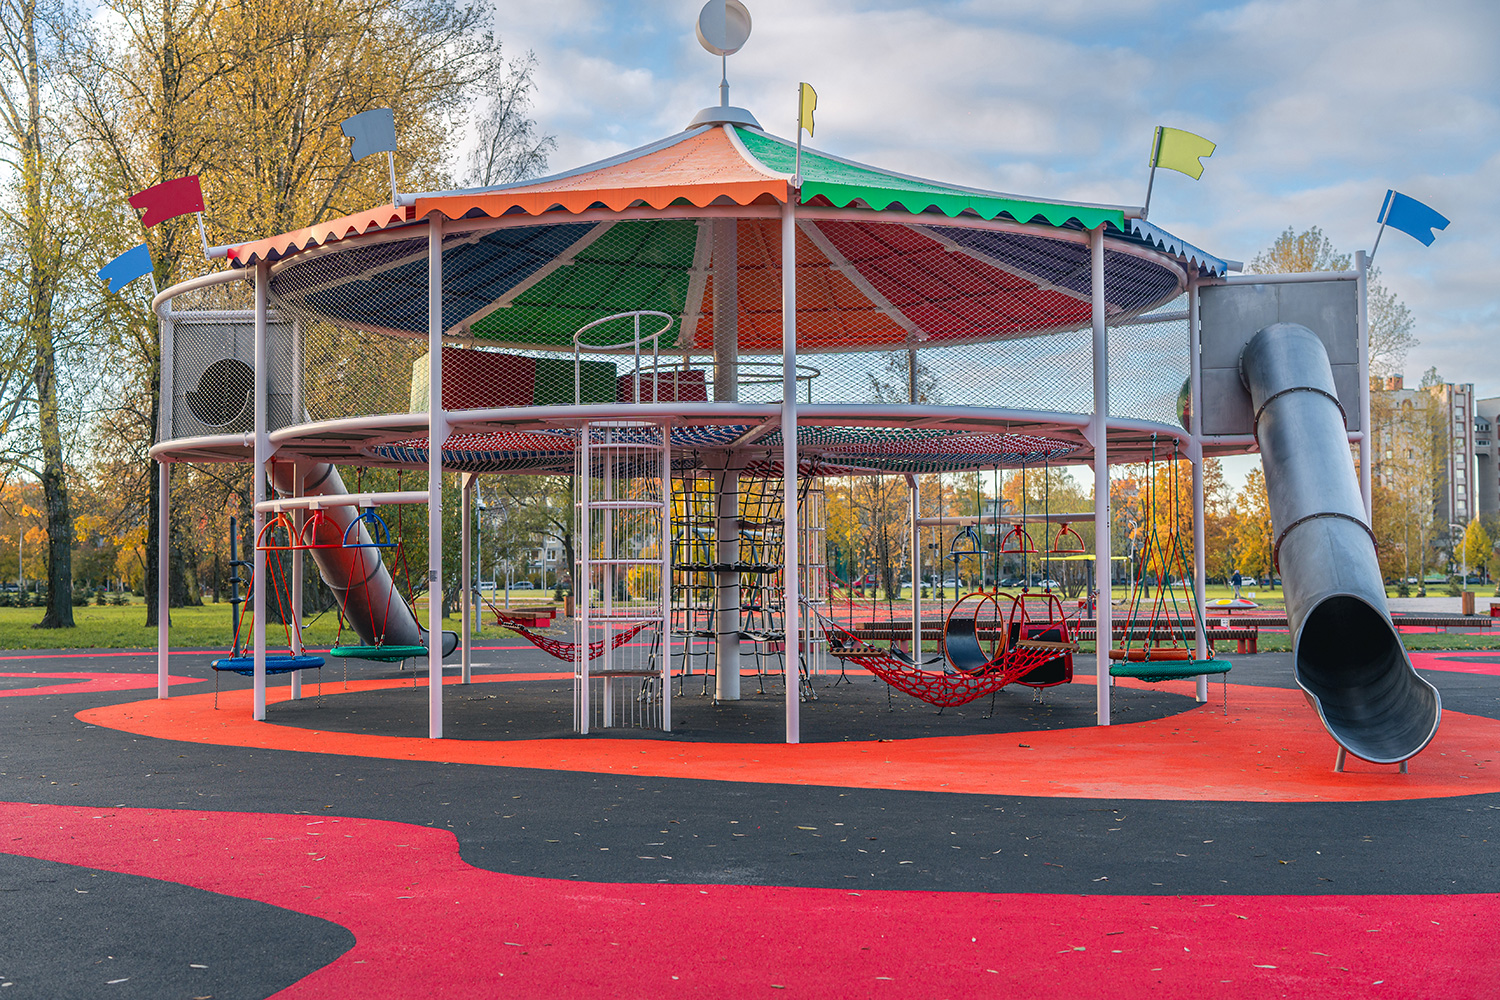
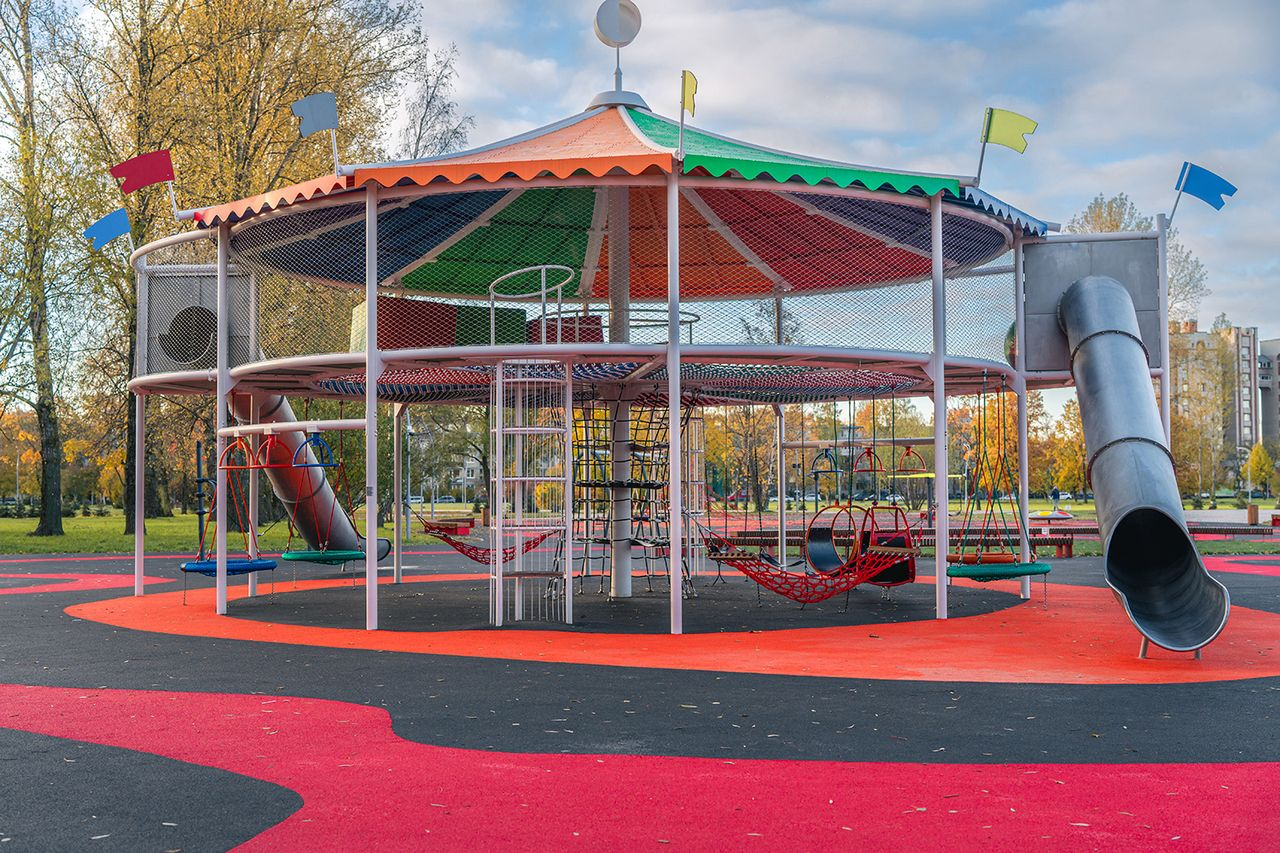
Лиды в Telegram, политика, лид-магнит каталог, SEO, бот-защита, ZIP
- Заявки/квиз/контакты/каталог шлют лид в Telegram + экран Спасибо
- Маска телефона, валидация, conversion label (gtag)
- privacy.html + согласие в формах (для модерации Google Ads)
- Каталог за контакт (модалка)
- SEO: og/twitter/schema image, SEO-текст, ускорен прелоадер, сжаты фото
- .htaccess (блок бот-скрейперов, HTTPS, gzip, кэш) + robots.txt
- maf-construction-site.zip для загрузки на хостинг

diff --git a/privacy.html b/privacy.html
@@ -1,0 +1,77 @@
+<!DOCTYPE html>
+<html lang="ru">
+<head>
+<meta charset="UTF-8">
+<meta name="viewport" content="width=device-width, initial-scale=1.0">
+<title>Политика конфиденциальности — MAF Construction LTD Group</title>
+<meta name="robots" content="noindex, follow">
+<style>
+*{margin:0;padding:0;box-sizing:border-box}
+body{font-family:-apple-system,Segoe UI,Roboto,Arial,sans-serif;color:#1E293B;background:#F1F5F9;line-height:1.7;-webkit-font-smoothing:antialiased}
+.wrap{max-width:820px;margin:0 auto;padding:40px 20px 80px}
+.top{display:flex;align-items:center;justify-content:space-between;margin-bottom:32px;flex-wrap:wrap;gap:12px}
+.logo{font-weight:800;font-size:20px;color:#0A1628;text-decoration:none}.logo span{color:#FF6B35}
+.back{color:#0052CC;text-decoration:none;font-weight:600;font-size:14px}
+.card{background:#fff;border-radius:18px;padding:40px;box-shadow:0 8px 40px rgba(0,0,0,.06)}
+h1{font-size:28px;font-weight:800;color:#0A1628;margin-bottom:8px;letter-spacing:-.5px}
+.upd{color:#64748B;font-size:13px;margin-bottom:28px}
+h2{font-size:18px;font-weight:700;color:#0A1628;margin:28px 0 10px}
+p,li{font-size:15px;color:#334155;margin-bottom:10px}
+ul{padding-left:22px}
+a{color:#0052CC}
+.muted{color:#64748B;font-size:13px;margin-top:28px;border-top:1px solid #E2E8F0;padding-top:20px}
+@media(max-width:600px){.card{padding:24px}h1{font-size:23px}}
+</style>
+</head>
+<body>
+<div class="wrap">
+<div class="top"><a href="index.html" class="logo">MAF<span>.</span>Construction</a><a href="index.html" class="back">&#8592; На главную</a></div>
+<div class="card">
+<h1>Политика конфиденциальности</h1>
+<div class="upd">Действует с 8 июня 2026 года</div>
+
+<p>Настоящая Политика конфиденциальности определяет порядок обработки и защиты персональных данных пользователей сайта (далее — «Сайт») оператором <strong>MAF Construction LTD Group</strong> (БИН 250440001994, г. Алматы, ул. Кыз Жибек, 87) (далее — «Оператор»).</p>
+
+<h2>1. Какие данные мы собираем</h2>
+<p>При заполнении форм на Сайте (заявка, калькулятор стоимости, запрос каталога) Оператор обрабатывает следующие персональные данные, которые вы предоставляете добровольно:</p>
+<ul>
+<li>имя;</li>
+<li>номер телефона;</li>
+<li>текст сообщения (если вы его указали).</li>
+</ul>
+<p>Также автоматически могут собираться технические данные (cookies, IP-адрес, тип устройства и браузера, источник перехода) с помощью систем веб-аналитики.</p>
+
+<h2>2. Цели обработки</h2>
+<ul>
+<li>обработка и выполнение ваших заявок и запросов;</li>
+<li>связь с вами для консультации, подбора оборудования, подготовки расчёта и коммерческого предложения;</li>
+<li>улучшение работы Сайта и качества сервиса;</li>
+<li>оценка эффективности рекламы (обезличенная статистика).</li>
+</ul>
+
+<h2>3. Правовое основание</h2>
+<p>Обработка персональных данных осуществляется на основании вашего согласия, которое вы даёте, отправляя форму на Сайте, в соответствии с законодательством Республики Казахстан «О персональных данных и их защите».</p>
+
+<h2>4. Передача третьим лицам</h2>
+<p>Оператор не продаёт и не передаёт ваши персональные данные третьим лицам, за исключением случаев, необходимых для исполнения заявки, а также случаев, предусмотренных законодательством. Данные могут обрабатываться в используемых Оператором сервисах (мессенджеры, системы аналитики) исключительно в указанных выше целях.</p>
+
+<h2>5. Хранение и защита</h2>
+<p>Персональные данные хранятся не дольше, чем это необходимо для целей обработки, после чего удаляются. Оператор принимает необходимые организационные и технические меры для защиты данных от несанкционированного доступа.</p>
+
+<h2>6. Ваши права</h2>
+<p>Вы вправе запросить информацию об обработке ваших данных, их изменение или удаление, а также отозвать согласие на обработку, направив обращение по контактам ниже.</p>
+
+<h2>7. Cookies</h2>
+<p>Сайт использует файлы cookies для корректной работы и аналитики. Вы можете отключить cookies в настройках браузера, однако это может повлиять на работу отдельных функций Сайта.</p>
+
+<h2>8. Контакты</h2>
+<p>По вопросам обработки персональных данных обращайтесь:<br>
+Телефон / WhatsApp: <a href="tel:[phone redacted]">[phone redacted]</a><br>
+E-mail: <a href="mailto:[email redacted]">[email redacted]</a><br>
+Адрес: г. Алматы, ул. Кыз Жибек, 87</p>
+
+<div class="muted">Оператор оставляет за собой право вносить изменения в настоящую Политику. Актуальная версия всегда доступна на данной странице.</div>
+</div>
+</div>
+</body>
+</html>